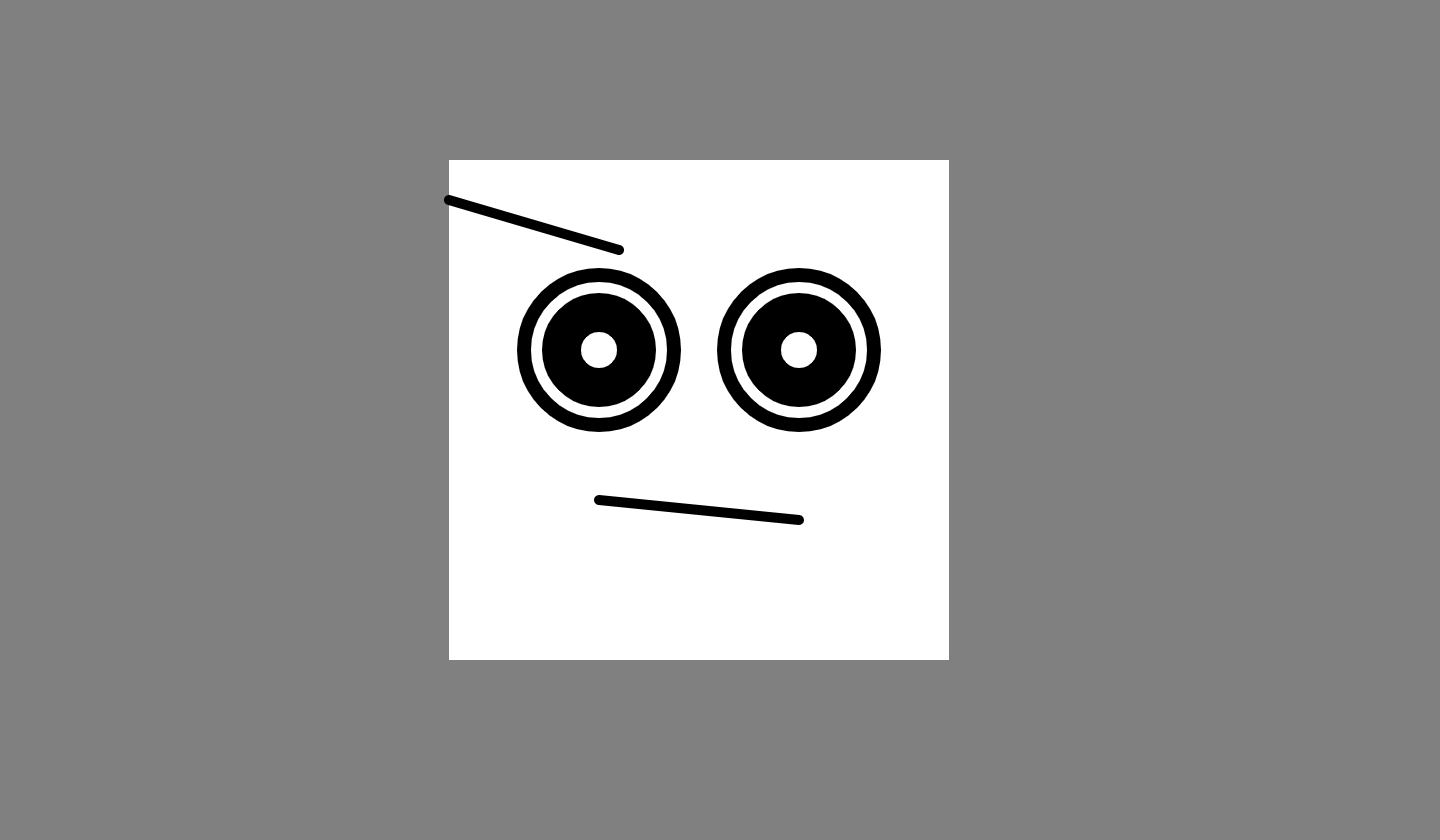
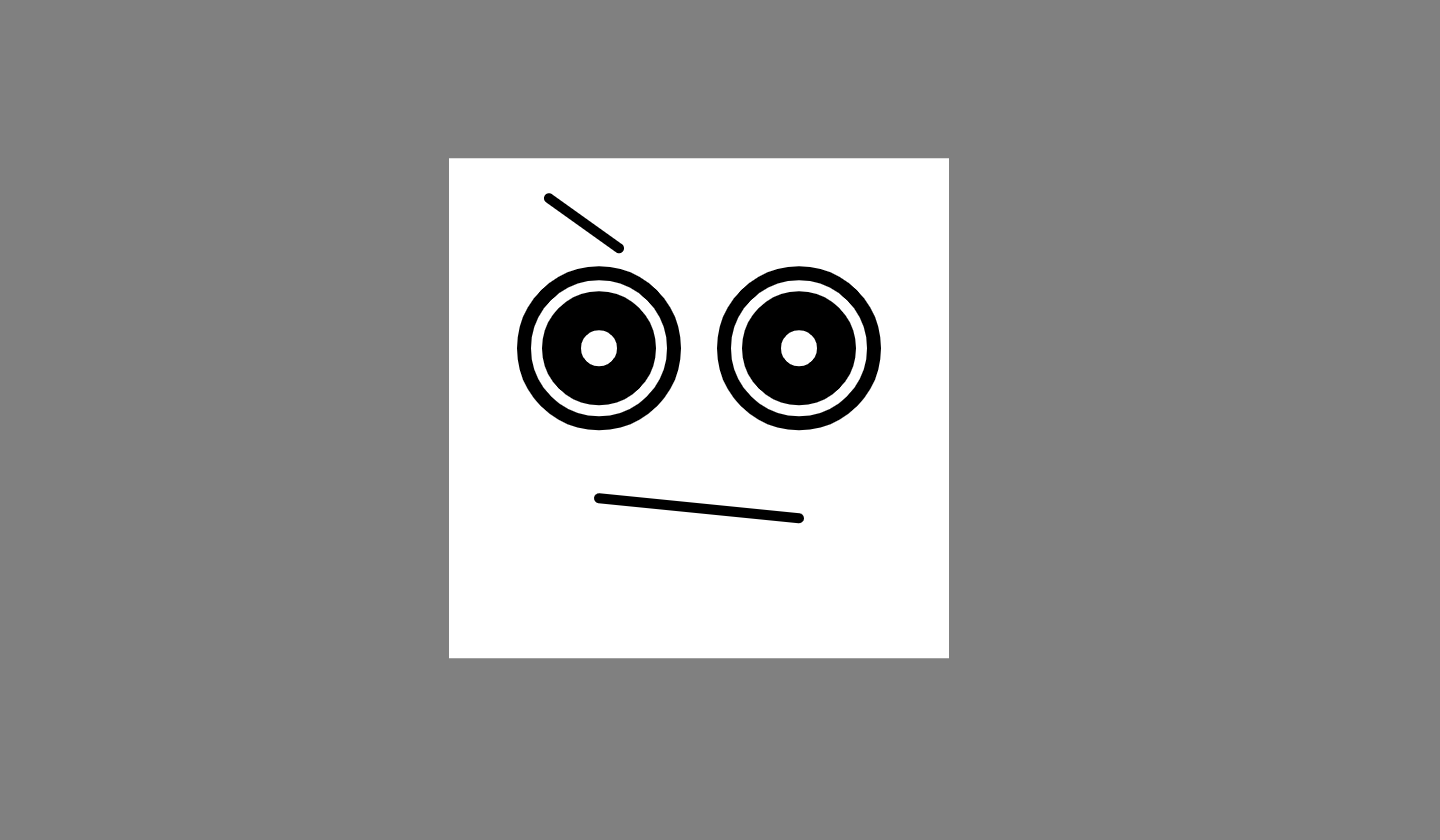
Add self portrait v2 w/ variable and small updates

diff --git a/Self Portrait_v2/Sketch.js b/Self Portrait_v2/Sketch.js
@@ -28,7 +28,7 @@ function draw() {
 	//eyebrows
 	stroke("#000000"); //black
 	strokeWeight(5);
-	line(x - 125, y - 125, x - 40, y - 100); //left
+	line(x - 75, y - 125, x - 40, y - 100); //left
 
 	// eyes
 	stroke("#000000");	//black
